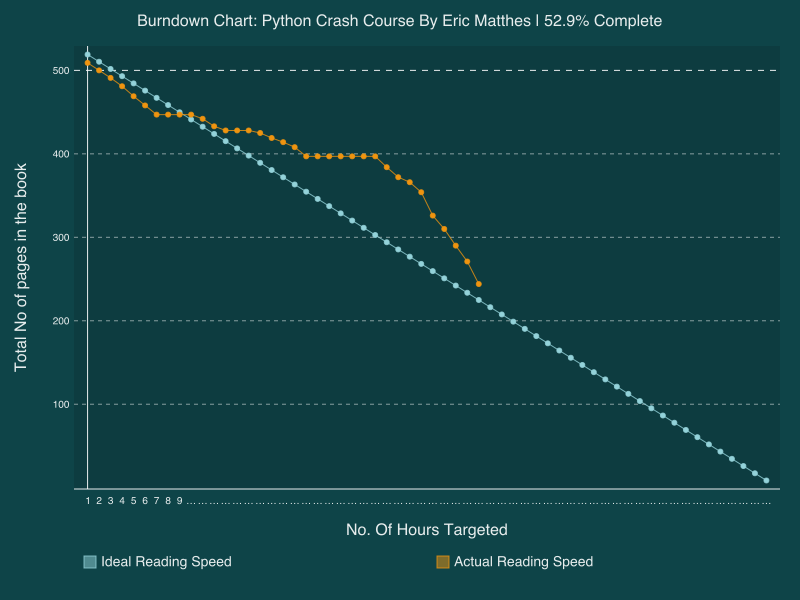
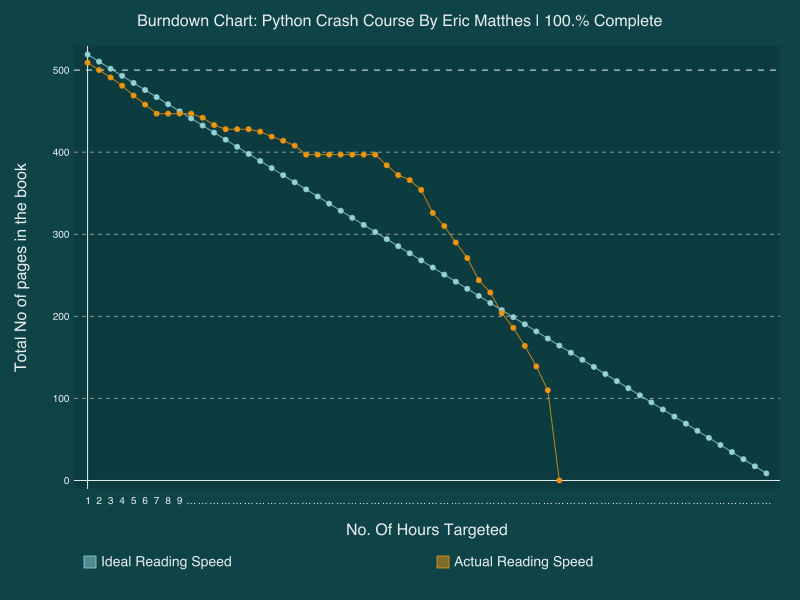
Done

diff --git a/learn.py b/learn.py
@@ -16,7 +16,9 @@ reading_progress = [
     #30 dec
     122,122,122,122,122,122,135,147,153,165,
     #31 dec
-    193,209,229,248,275
+    193,209,229,248,275,290,315,333,355,
+    #2nd jan
+    380,409,519
     ]
 
 #percentage 
